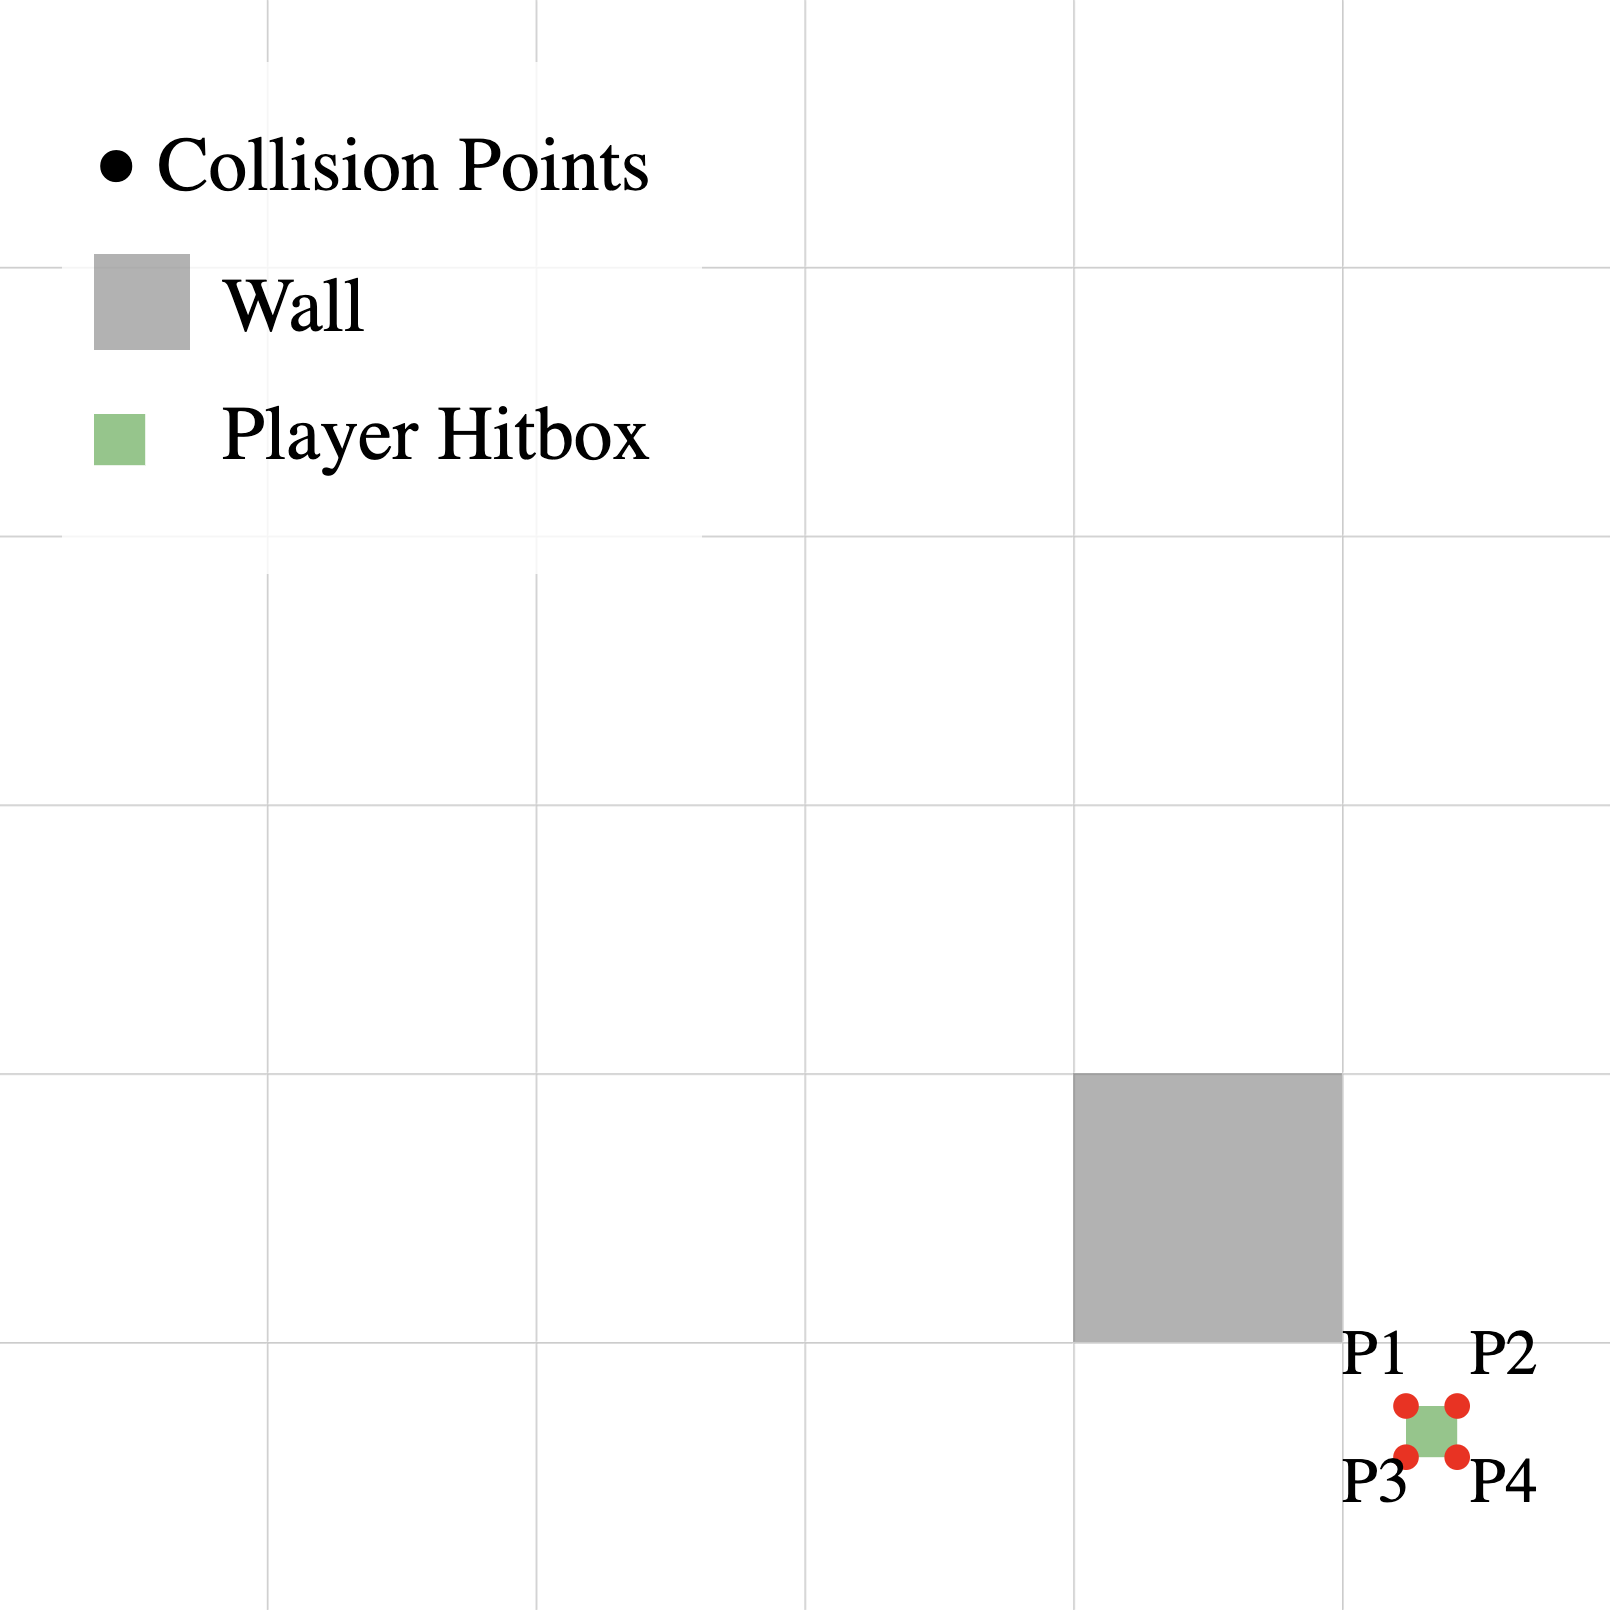
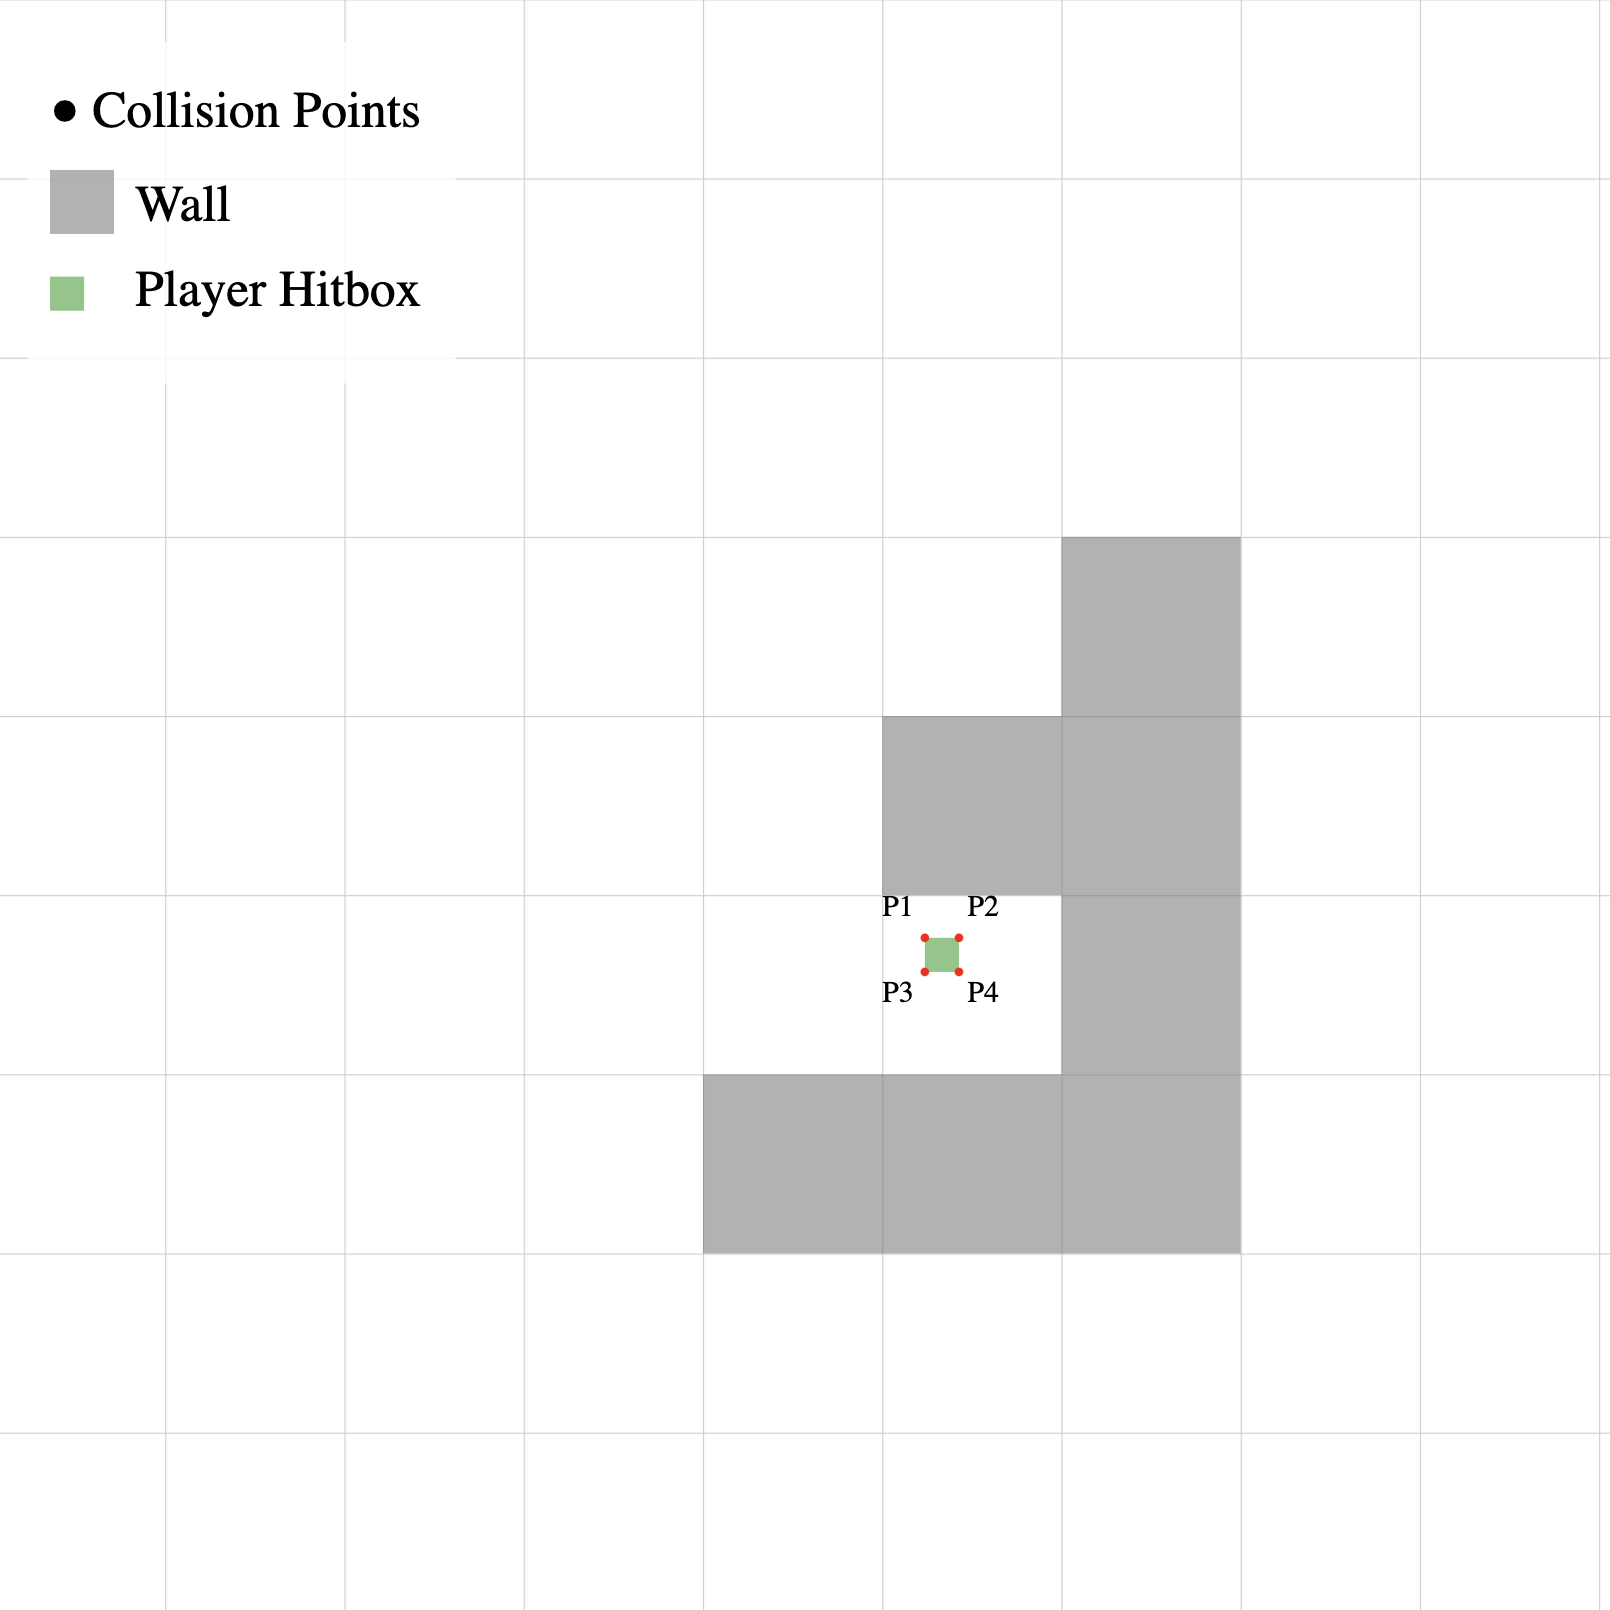
README.md

diff --git a/README.md b/README.md
@@ -34,13 +34,13 @@ The player structor is represented as follows:
 
 ```c
 typedef struct	s_player {
-    mlx_image_t	*imge;		// Player's image/object
-    int			x;			// Horizontal coordinates of the player
-    int 		y;			// Vertical coordinates of the player
-    int 		walk_dir;	// Movement indicator (forward/backward)
-    int 		strafe_dir;	// Strafing indicator (left/right)
-    int 		turn_dir;	// Turning indicator (left/right)
-    double		rot_angle;	// Angle where the player is looking
+	mlx_image_t	*imge;		// Player's image/object
+	int			x;			// Horizontal coordinates of the player
+	int 		y;			// Vertical coordinates of the player
+	int 		walk_dir;	// Movement indicator (forward/backward)
+	int 		strafe_dir;	// Strafing indicator (left/right)
+	int 		turn_dir;	// Turning indicator (left/right)
+	double		rot_angle;	// Angle where the player is looking
 } t_player;
 ```
 
@@ -59,32 +59,32 @@ typedef struct	s_player {
 
 ## Player Movement
 
-- Input Handling:
+1. Input Handling:
 
-```c
-void	key_press(t_data *data)
-{
-	data->player->turn_dir = 0;
-	data->player->walk_dir = 0;
-	data->player->strafe_dir = 0;
-	if (mlx_is_key_down(data->game, MLX_KEY_ESCAPE))
-		ft_exit(data, 0, true);
-	if (mlx_is_key_down(data->game, MLX_KEY_RIGHT))
-		data->player->turn_dir = 1;
-	if (mlx_is_key_down(data->game, MLX_KEY_LEFT))
-		data->player->turn_dir = -1;
-	if (mlx_is_key_down(data->game, MLX_KEY_W))
-		data->player->walk_dir = 1;
-	if (mlx_is_key_down(data->game, MLX_KEY_S))
-		data->player->walk_dir = -1;
-	if (mlx_is_key_down(data->game, MLX_KEY_D))
-		data->player->strafe_dir = 1;
-	if (mlx_is_key_down(data->game, MLX_KEY_A))
-		data->player->strafe_dir = -1;
-	if (mlx_is_key_down(data->game, MLX_KEY_LEFT_SHIFT))
-		data->player->walk_dir *= 2.5;
-}
-```
+	```c
+	void	key_press(t_data *data)
+	{
+		data->player->turn_dir = 0;
+		data->player->walk_dir = 0;
+		data->player->strafe_dir = 0;
+		if (mlx_is_key_down(data->game, MLX_KEY_ESCAPE))
+			ft_exit(data, 0, true);
+		if (mlx_is_key_down(data->game, MLX_KEY_RIGHT))
+			data->player->turn_dir = 1;
+		if (mlx_is_key_down(data->game, MLX_KEY_LEFT))
+			data->player->turn_dir = -1;
+		if (mlx_is_key_down(data->game, MLX_KEY_W))
+			data->player->walk_dir = 1;
+		if (mlx_is_key_down(data->game, MLX_KEY_S))
+			data->player->walk_dir = -1;
+		if (mlx_is_key_down(data->game, MLX_KEY_D))
+			data->player->strafe_dir = 1;
+		if (mlx_is_key_down(data->game, MLX_KEY_A))
+			data->player->strafe_dir = -1;
+		if (mlx_is_key_down(data->game, MLX_KEY_LEFT_SHIFT))
+			data->player->walk_dir *= 2.5;
+	}
+	```
 
 This sets movement directions based on key inputs:
 
@@ -93,113 +93,116 @@ A/D: Left/Right strafe (strafe_dir)\
 Left/Right arrows: Rotation (turn_dir)\
 Left Shift: Sprint (increases walk_dir)
 
-- Updating player position:
+2. Updating player position:
 
-This is how the player is able to move in a 2D environment:
+	This is how the player is able to move in a 2D environment:
 
-```c
-void	update_player_pose(t_data *data)
-{
-	double	move_step;
-	double	straf_step;
-	int32_t	new_x;
-	int32_t	new_y;
-
-	data->player->rot_angle += data->player->turn_dir * (data->rot_speed);
-	data->player->rot_angle = norm_angle(data->player->rot_angle);
-	move_step = data->player->walk_dir * (SPEED);
-	straf_step = data->player->strafe_dir * (SPEED);
-	new_x = round(cos(data->player->rot_angle) * move_step - sin(data->player->rot_angle) * straf_step);
-	new_y = round(sin(data->player->rot_angle) * move_step + cos(data->player->rot_angle) * straf_step);
-	if (if_collition(data, new_x, new_y))
+	```c
+	void	update_player_pose(t_data *data)
 	{
-		data->player->imge->instances->x += new_x;
-		data->player->imge->instances->y += new_y;
+		double	move_step;
+		double	straf_step;
+		int32_t	new_x;
+		int32_t	new_y;
+
+		data->player->rot_angle += data->player->turn_dir * (data->rot_speed);
+		data->player->rot_angle = norm_angle(data->player->rot_angle);
+		move_step = data->player->walk_dir * (SPEED);
+		straf_step = data->player->strafe_dir * (SPEED);
+		new_x = round(cos(data->player->rot_angle) * move_step - sin(data->player->rot_angle) * straf_step);
+		new_y = round(sin(data->player->rot_angle) * move_step + cos(data->player->rot_angle) * straf_step);
+		if (if_collition(data, new_x, new_y))
+		{
+			data->player->imge->instances->x += new_x;
+			data->player->imge->instances->y += new_y;
+		}
+		data->player->x = data->player->imge->instances->x;
+		data->player->y = data->player->imge->instances->y;
 	}
-	data->player->x = data->player->imge->instances->x;
-	data->player->y = data->player->imge->instances->y;
-}
-```
+	```
 
-`move_step`: the movement in the forward/backward direction (walking).\
-`strafe_step`: the movement in the left/right direction (strafing).\
-`new_x, new_y`: the new target coordinates the player will try to move to.
+	`move_step`: the movement in the forward/backward direction (walking).\
+	`strafe_step`: the movement in the left/right direction (strafing).\
+	`new_x, new_y`: the new target coordinates the player will try to move to.
 
-  - Adjust Player Rotation (Turning):
+	- Adjust Player Rotation (Turning):
 
-  ```c
-  data->player->rot_angle += data->player->turn_dir * (data->rot_speed);
-  data->player->rot_angle = norm_angle(data->player->rot_angle);
-  ```
+		```c
+		data->player->rot_angle += data->player->turn_dir * (data->rot_speed);
+		data->player->rot_angle = norm_angle(data->player->rot_angle);
+		```
 
-  - The player's rotation angle:
-  `(rot_angle)` is updated based on the turn direction (turn_dir) and the rotation speed `(rot_speed)`.\
-  `turn_dir` is typically `1` for turning right and `-1` for turning left, so this updates the angle the player is facing.\
-  `norm_angle` is used to normalize the angle, making sure it stays within the range [0, 2π] in radians.
+	- The player's rotation angle:
+		`(rot_angle)` is updated based on the turn direction (turn_dir) and the rotation speed `(rot_speed)`.\
+		`turn_dir` is typically `1` for turning right and `-1` for turning left, so this updates the angle the player is facing.\
+		`norm_angle` is used to normalize the angle, making sure it stays within the range [0, 2π] in radians.
 
-  - Calculate Movement Step:
+	- Calculate Movement Step:
 
-  ```c
-  move_step = data->player->walk_dir * (SPEED);
-  strafe_step = data->player->strafe_dir * (SPEED);
-  ```
+		```c
+		move_step = data->player->walk_dir * (SPEED);
+		strafe_step = data->player->strafe_dir * (SPEED);
+		```
 
-The player can move in the forward/backward direction `(walk_dir)` and in the left/right direction `(strafe_dir)`.\
-  - `walk_dir` is `1` for moving forward, `-1` for moving backward and `0` you guesses it, not moving.\
-  - `strafe_dir` is `1` for moving right, `-1` for moving left and `0` not moving.\
-  - These direction values are multiplied by a constant `(SPEED)`, which defines the speed at which the player moves. So, `move_step` and `strafe_step` are the distances the player will move in each respective direction.
+		The player can move in the forward/backward direction `(walk_dir)` and in the left/right direction `(strafe_dir)`.\
 
-    - Calculate New Position (X and Y):
+	- `walk_dir` is `1` for moving forward, `-1` for moving backward and `0` you guesses it, not moving.\
+	- `strafe_dir` is `1` for moving right, `-1` for moving left and `0` not moving.\
+	- These direction values are multiplied by a constant `(SPEED)`, which defines the speed at which the player moves. So, `move_step` and `strafe_step` are the distances the player will move in each respective direction.
 
-    ```c
-    new_x = round(cos(data->player->rot_angle) * move_step - sin(data->player->rot_angle) * strafe_step);
-    new_y = round(sin(data->player->rot_angle) * move_step + cos(data->player->rot_angle) * strafe_step);
-    ```
+	- Calculate New Position (X and Y):
 
-    - Forward/Backward Movement:
-        - Direction based on viewing angle θ
-        - X = cos(θ) * move_step
-        - Y = sin(θ) * move_step
+	```c
+	new_x = round(cos(data->player->rot_angle) * move_step - sin(data->player->rot_angle) * strafe_step);
+	new_y = round(sin(data->player->rot_angle) * move_step + cos(data->player->rot_angle) * strafe_step);
+	```
 
-    - Strafe Movement:
-        - Perpendicular to viewing direction
-        - X = -sin(θ) * strafe_step
-        - Y = cos(θ) * strafe_step
+	![Movement](source_img/movement.png)
 
-    - Combined Movement:
-        - Sum of forward/backward and strafe vectors
-        - Final X = cos(θ) * move_step - sin(θ) * strafe_step
-        - Final Y = sin(θ) * move_step + cos(θ) * strafe_step
+	- Forward/Backward Movement:
+		- Direction based on viewing angle θ
+		- X = cos(θ) * move_step
+		- Y = sin(θ) * move_step
 
-- Collision Check:
+	- Strafe Movement:
+		- Perpendicular to viewing direction
+		- X = -sin(θ) * strafe_step
+		- Y = cos(θ) * strafe_step
 
-```c
-bool if_collition(t_data *data, int32_t x, int32_t y)
-{
-    int p_x;
-    int p_y;
-    int h_x;
-    int h_y;
+	- Combined Movement:
+		- Sum of forward/backward and strafe vectors
+		- Final X = cos(θ) * move_step - sin(θ) * strafe_step
+		- Final Y = sin(θ) * move_step + cos(θ) * strafe_step
 
-    // Calculate the actual position including player hitbox
-    p_x = x + data->player->imge->instances->x;
-    p_y = y + data->player->imge->instances->y;
-    
-    // Calculate the position of the opposite corner of hitbox
-    h_x = (p_x + HITBOX - 1) / TILE_SIZE;
-    h_y = (p_y + HITBOX - 1) / TILE_SIZE;
+3. Collision Check:
 
-    // Check all corners for collisions
-    if (data->parsed_map[p_y / TILE_SIZE][p_x / TILE_SIZE] != '1' && 
-        data->parsed_map[h_y][h_x] != '1' && 
-        data->parsed_map[p_y / TILE_SIZE][h_x] != '1' && 
-        data->parsed_map[h_y][p_x / TILE_SIZE] != '1')
-        return (true);
-    return (false);
-}
-```
+	```c
+	bool if_collition(t_data *data, int32_t x, int32_t y)
+	{
+		int p_x;
+		int p_y;
+		int h_x;
+		int h_y;
 
-The collision system works by checking multiple points around the player's hitbox to prevent walking through walls.
+		// Calculate the actual position including player hitbox
+		p_x = x + data->player->imge->instances->x;
+		p_y = y + data->player->imge->instances->y;
+		
+		// Calculate the position of the opposite corner of hitbox
+		h_x = (p_x + HITBOX - 1) / TILE_SIZE;
+		h_y = (p_y + HITBOX - 1) / TILE_SIZE;
 
-![Collition](source_img/collision.png)
+		// Check all corners for collisions
+		if (data->parsed_map[p_y / TILE_SIZE][p_x / TILE_SIZE] != '1' && 
+			data->parsed_map[h_y][h_x] != '1' && 
+			data->parsed_map[p_y / TILE_SIZE][h_x] != '1' && 
+			data->parsed_map[h_y][p_x / TILE_SIZE] != '1')
+			return (true);
+		return (false);
+	}
+	```
+
+	The collision system works by checking multiple points around the player's hitbox to prevent walking through walls.
+
+	![Collition](source_img/collision.png)
 
